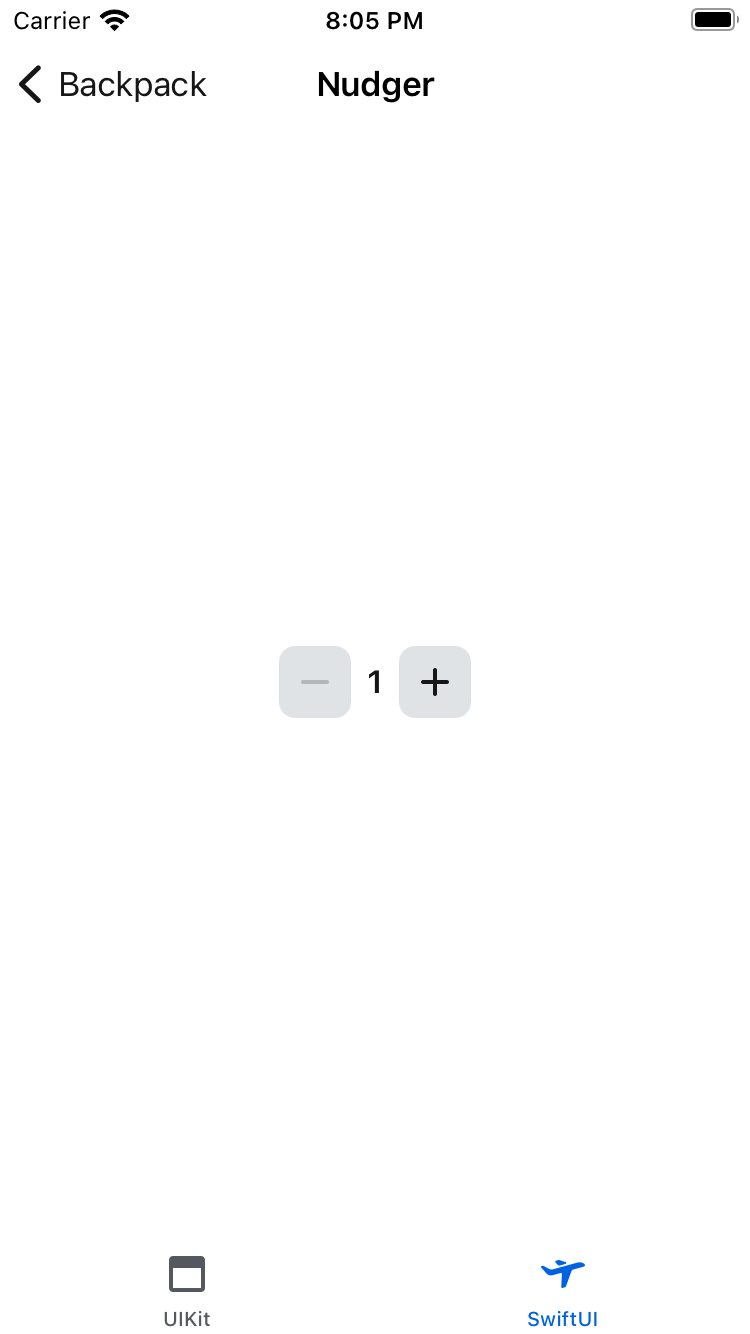
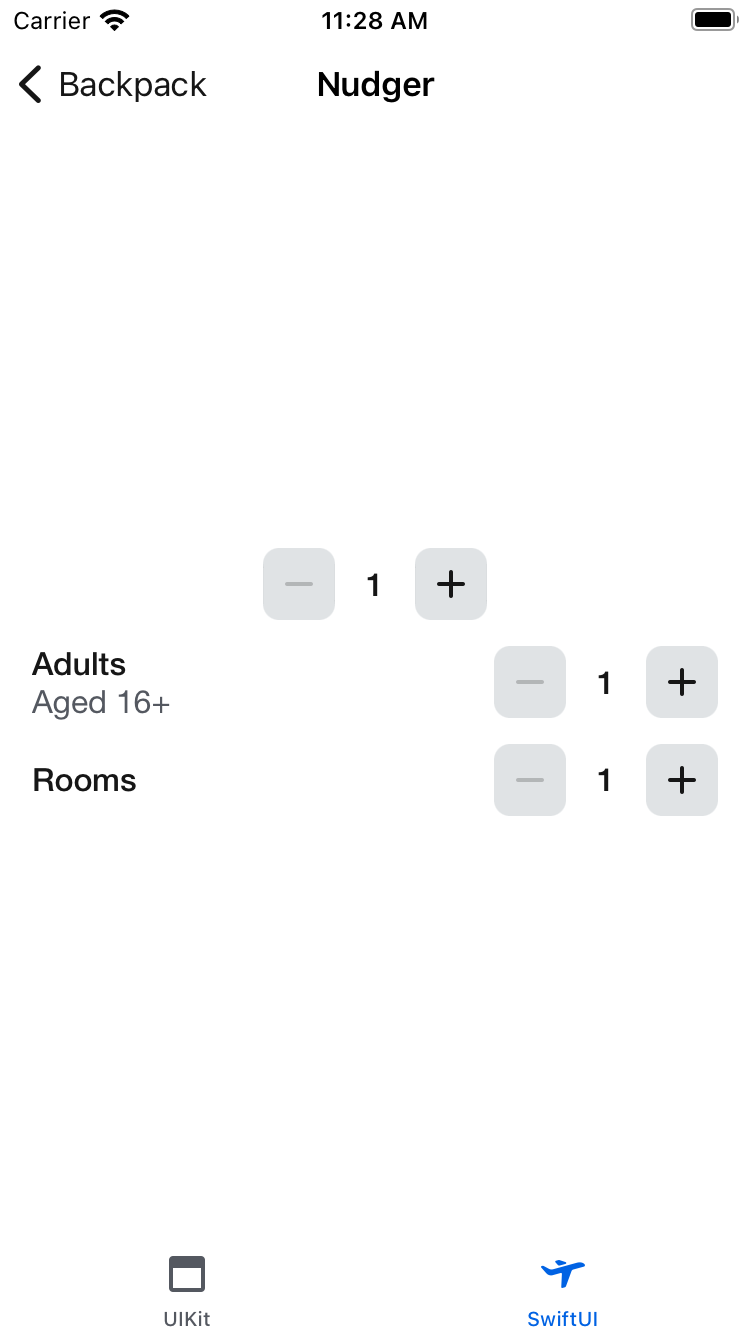
[KOA-6195] BPKNudger, title and subtitle (#1733)
* Add nudger row test

* Add snapshot tests

* Update accessibility read out

* Add docs screenshots

diff --git a/Backpack-SwiftUI/Nudger/Classes/BPKNudger.swift b/Backpack-SwiftUI/Nudger/Classes/BPKNudger.swift
@@ -23,6 +23,9 @@ public struct BPKNudger: View {
     @State private var canIncrement = true
     @State private var canDecrement = true
     @Binding private var value: Int
+    
+    private let title: String?
+    private let subtitle: String?
 
     private var minValue: Int
     private var maxValue: Int
@@ -41,23 +44,63 @@ public struct BPKNudger: View {
     ///   - step: The step value of the `BPKNudger`.
     ///     Defaults to `1`.
     public init(value: Binding<Int>, min: Int, max: Int, step: Int = 1) {
+        self.title = nil
+        self.subtitle = nil
+        
         minValue = min
         maxValue = max
+        self.step = step
+        self._value = value
+    }
+    
+    /// Creates a `BPKNudger`.
+    /// - Parameters:
+    ///   - title: The value of the `BPKNudger` title label
+    ///   - subtitle: The value of the `BPKNudger` subtitle label
+    ///     Optional, when not set, the title will vertically center
+    ///   - value: The value of the `BPKNudger`.
+    ///     Must be between `min` and `max`.
+    ///     If changed, the value will be clamped to be between `min` and `max`.
+    ///   - min: The minimum value of the `BPKNudger`.
+    ///     Must be less than `max`.
+    ///   - max: The maximum value of the `BPKNudger`.
+    ///     Must be greater than `min`.
+    ///   - step: The step value of the `BPKNudger`.
+    ///     Defaults to `1`.
+    public init(title: String, subtitle: String? = nil, value: Binding<Int>, min: Int, max: Int, step: Int = 1) {
+        self.title = title
+        self.subtitle = subtitle
+        self.minValue = min
+        self.maxValue = max
         self.step = step
         self._value = value
     }
 
     public var body: some View {
         HStack(spacing: .md) {
-            BPKButton(icon: .minus, accessibilityLabel: "", enabled: $canDecrement, action: decrement)
-                .buttonStyle(.secondary)
-            BPKText("\(value)", style: .heading5)
-                .frame(minWidth: minWidth)
-            BPKButton(icon: .plus, accessibilityLabel: "", enabled: $canIncrement, action: increment)
-                .buttonStyle(.secondary)
+            if let title {
+                VStack(alignment: .leading) {
+                    BPKText(title, style: .heading5)
+                    
+                    if let subtitle {
+                        BPKText(subtitle)
+                            .foregroundColor(.textSecondaryColor)
+                    }
+                }
+                Spacer()
+            }
+            Group {
+                BPKButton(icon: .minus, accessibilityLabel: "", enabled: $canDecrement, action: decrement)
+                    .buttonStyle(.secondary)
+                BPKText("\(value)", style: .heading5)
+                    .frame(minWidth: minWidth)
+                BPKButton(icon: .plus, accessibilityLabel: "", enabled: $canIncrement, action: increment)
+                    .buttonStyle(.secondary)
+            }
+            .accessibilityElement(children: .ignore)
         }
-        .accessibilityElement()
-        .accessibilityValue(Text(String(value)))
+        .accessibilityElement(children: .combine)
+        .accessibilityValue(Text("\(value)"))
         .accessibilityAdjustableAction { direction in
             switch direction {
             case .increment: increment()
@@ -71,6 +114,9 @@ public struct BPKNudger: View {
             }
             updateButtonStates()
         }
+        .onChange(of: value, perform: { _ in
+            updateButtonStates()
+        })
         .sizeCategory(.large)
     }
     

diff --git a/Example/Backpack/SwiftUI/Components/Nudger/NudgerExampleView.swift b/Example/Backpack/SwiftUI/Components/Nudger/NudgerExampleView.swift
@@ -24,8 +24,13 @@ struct NudgerExampleView: View {
     @State private var value = 0
     
     var body: some View {
-        BPKNudger(value: $value, min: 1, max: 10, step: 1)
-            .accessibilityLabel("Passengers")
+        VStack {
+            BPKNudger(value: $value, min: 1, max: 10, step: 1)
+                .accessibilityLabel("Passengers")
+            BPKNudger(title: "Adults", subtitle: "Aged 16+", value: $value, min: 1, max: 10)
+            BPKNudger(title: "Rooms", value: $value, min: 1, max: 10)
+        }
+        .padding()
     }
 }
 

diff --git a/Backpack-SwiftUI/Tests/Nudger/BPKNudgerTests.swift b/Backpack-SwiftUI/Tests/Nudger/BPKNudgerTests.swift
@@ -39,4 +39,16 @@ class BPKNudgerTests: XCTestCase {
             BPKNudger(value: .constant(10), min: 0, max: 10, step: 1)
         )
     }
+    
+    func test_title() {
+        assertSnapshot(
+            BPKNudger(title: "Rooms", value: .constant(2), min: 0, max: 10, step: 1)
+        )
+    }
+    
+    func test_title_and_subtitle() {
+        assertSnapshot(
+            BPKNudger(title: "Adults", subtitle: "Aged 16+", value: .constant(5), min: 0, max: 10, step: 1)
+        )
+    }
 }

diff --git a/Backpack-SwiftUI/Nudger/README.md b/Backpack-SwiftUI/Nudger/README.md
@@ -15,8 +15,17 @@
 an adjustable control that allows a user to select a numerical value between a min/max determined by the consumer.
 
 ```swift
-@State var value = 0
-
-BPKNudger(value: $value, min: 1, max: 10, step: 1)
-    .accessibilityLabel("Passenger")
+struct NudgerExampleView: View {
+    @State private var value = 0
+    
+    var body: some View {
+        VStack {
+            BPKNudger(value: $value, min: 1, max: 10, step: 1)
+                .accessibilityLabel("Passengers")
+            BPKNudger(title: "Adults", subtitle: "Aged 16+", value: $value, min: 1, max: 10)
+            BPKNudger(title: "Rooms", value: $value, min: 1, max: 10)
+        }
+        .padding()
+    }
+}
 ```
